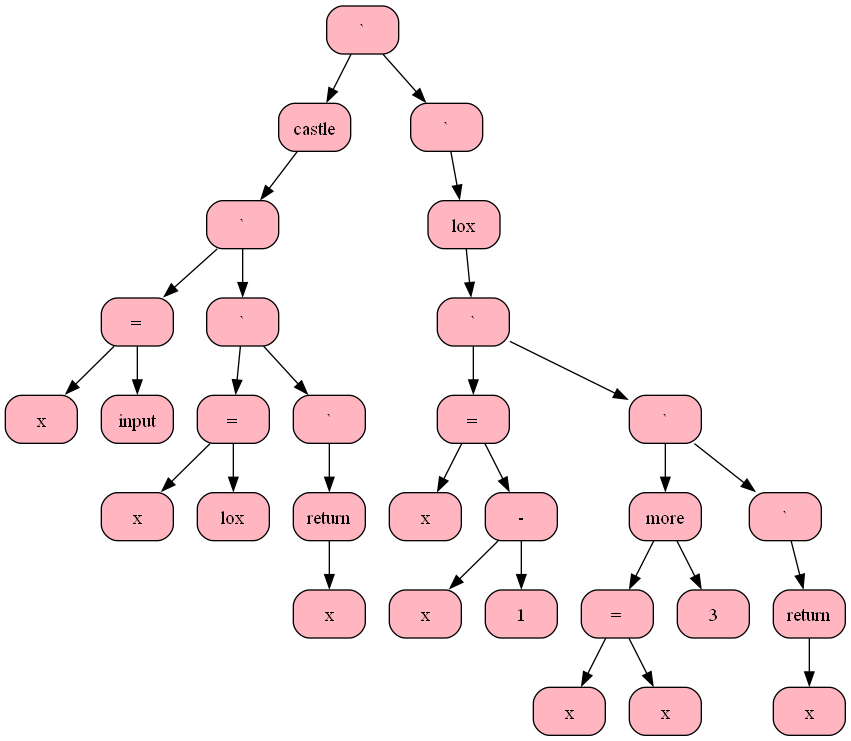
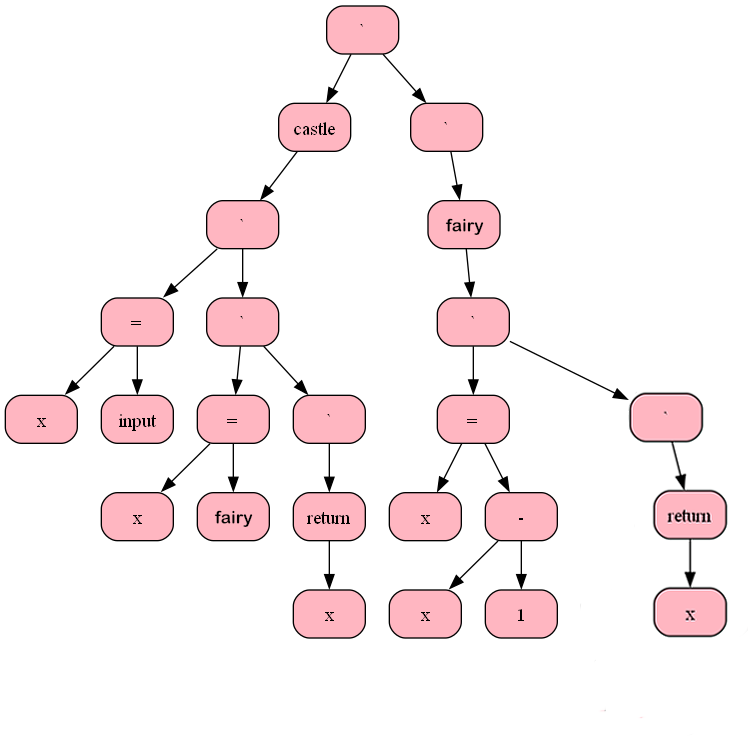
Add files via upload

diff --git a/Женский язык.md b/Женский язык.md
@@ -1,0 +1,90 @@
+# Женский язык
+Этот проект является финальным заданием дополнительно курса Айлаб ( на 1 курсе МФТИ ). 
+## Структура
+Проект состоит из 5 частей : 
+1. fornt-часть, включающая в себя деление на токены, реализацию алгоритма "Рекурсивный спуск", посмотроение бинарного дерева и его графический вывод при помощи Graphviz;
+2. middle-часть, реализующая некоторые оптимизации
+3. back-часть, создающая файл с моими ассемблерными командами.
+4. assembler-часть, которая считывает файл с ассемблерными командами и динамически их кодирует.
+5. processor-часть, обрабатывающая файл с закодированными командами и выполняющая их.
+
+## Как установить 
+```sh
+git clone git@github.com:KetchuppOfficial/LFU_Cache.git
+cd LFU_Cache
+```
+## Грамматика языка
+Var_Def := ident '=' Get_Comparison ';'
+Func_Def := [ ident '(' ')' Statement_List ]* 
+Statement_List := '{' [statement]* '}'
+statement := Var_Def | If | Retutn | While | Else | Get_Func ( ident '(' ')' ';' ) | ';' // comparison
+While := 'while' '(' Get_Comparison ')' Statement_List
+Return := 'return' '(' Get_Exp ')' ';'
+If := 'if' '(' Get_Comparison ')' Statement_List
+Else := 'else' '(' Get_Comparison ')' Statement_List
+Get_Comparison := Get_Exp  [ [ '>', '<', '==' ] Get_exp ]*
+Get_Exp := Get_Term [ [ '*', '/' ] Get_Term*
+Get_Term := Get_Partititon [ [ '+', '-' ] Get_Partition ]*
+Get_Partition := '(' Get_Exp ')' | Get_Neg_Number | ident [ Var,Func '(' ')' ]
+Get_Power := Get_Part ['^' Get_Part]*
+
+## Синтаксис языка
+
+У меня С-подобный язык, поэтому синтакические правила остались практически без изменений, кроме :
+```sh
+while -> one minute
+return -> leave me alone
+if -> i take no offence
+else -> i am offended
+main() -> castle()
+input -> give me money
+output -> go to the shop
+```
+
+У меня нет локальных перемнных, поэтому, введя переменную в любом месте кода, она запоминается до конца программы. 
+
+## Пример программы
+
+```sh
+castle ( ) {
+	x = give me money();
+	x = fairy ();
+	go to the shop(x);
+	
+	leave me alone (x);
+}
+
+fairy ()
+{
+	x = x - 1;
+	leave me alone (x);
+}
+```
+
+Синтаксическое дерево:
+
+![Компьютер](logs/tree0.png)
+
+
+## Ассемблер примера
+
+```sh
+: 0;	\\castle
+in;
+pop [1];
+call 2;
+pop [1];
+push [1];
+hlt;
+
+: 2;	\\fairy
+push 1;
+push [1];
+sub;
+pop [1];
+push [1];
+ret;
+```
+
+## Кодировка
+![Компьютер](encoding.jpg)
